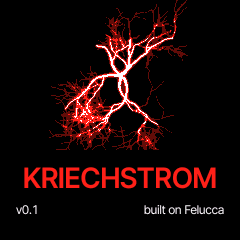
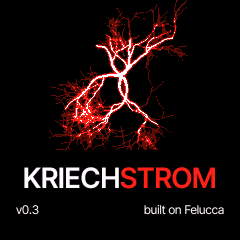
KRIECHSTROM 0.3: the manual, the site, the screens and the card for INFECT, HOWL, RESONATE, SPLICE and the new WALL; the source tarball from git

Changed region(s): [[0.0875, 0.6708, 0.4958, 0.7875], [0.7, 0.7, 0.9042, 0.7875], [0.1167, 0.8458, 0.175, 0.9042]]

diff --git a/site/manual/en.html b/site/manual/en.html
@@ -53,6 +53,10 @@ units. Everything Felucca does still works: this manual covers what you need to 
 <tr><td><kbd>SCL</kbd> hold + key</td><td>the root note</td></tr>
 <tr><td><kbd>LFO</kbd> hold + knob</td><td>MOMENTARY: let go, the value jumps back (<kbd>OCT+</kbd> keeps it)</td></tr>
 <tr><td>FX &gt; DAMAGE, K1-K4</td><td>DMG (wear), CHAR (tape to digital), WALL (quiet to wall), HISS (tape noise)</td></tr>
+<tr><td>FX &gt; RESONATE, K1-K3</td><td>AMT, KEY, CHORD: the mix rings four strings tuned to a chord</td></tr>
+<tr><td>FX &gt; SPLICE, K1</td><td>how often and how hard the tape is cut and glued back wrong</td></tr>
+<tr><td>FX &gt; PEDAL, INFCT</td><td>sidechain: SRC (the track it listens to), MODE (GATE DUCK CRUSH FOLD RING VOX), DEPTH</td></tr>
+<tr><td>GLCH, WAVE HOWL / MIC</td><td>feedback: GAIN (under ~45 % a pluck, over it a howl), CHAOS, BITE, BLOOM</td></tr>
 <tr><td>MIDI CC85 / CC86</td><td>WALL / DAMAGE</td></tr>
 </table></div>
 
@@ -63,6 +67,7 @@ units. Everything Felucca does still works: this manual covers what you need to 
   <li><a href="#first">First five minutes</a></li>
   <li><a href="#sounds">Changing sounds</a></li>
   <li><a href="#glch">The GLCH engine</a></li>
+  <li><a href="#howl">HOWL and MIC: feedback</a></li>
   <li><a href="#oops">HAPPY ACCIDENT (OOPS)</a></li>
   <li><a href="#seq">The sequencer</a></li>
   <li><a href="#drums">Drums</a></li>
@@ -72,6 +77,9 @@ units. Everything Felucca does still works: this manual covers what you need to 
   <li><a href="#glo">Mutes, solos, fills, songs</a></li>
   <li><a href="#fx">Effects: what is what</a></li>
   <li><a href="#damage">DAMAGE and WALL</a></li>
+  <li><a href="#infect">INFECT: the sidechain pedal</a></li>
+  <li><a href="#resonate">RESONATE</a></li>
+  <li><a href="#splice">SPLICE</a></li>
   <li><a href="#save">Saving and undo</a></li>
   <li><a href="#midi">MIDI and USB audio</a></li>
   <li><a href="#menu">Menu and screen</a></li>
@@ -161,8 +169,8 @@ glide), and the engine's own pages. <kbd>ENV</kbd> is the envelope, <kbd>LFO</kb
 <p>Hold <kbd>LFO</kbd> and turn a knob for a MOMENTARY move: let go of LFO and the value jumps back.</p>
 
 <h2 id="glch">The GLCH engine</h2>
-<p>GLCH is an oscillator (15 waves: SAW, SQR, DUAL, RING, NOIS, FAT, FM, FMX, FUZZ, REES,
-808, GRIT, GROW, SYNC, SUPR) into a resonant filter, a clipper and folder, a bit crusher and a micro-stutter that
+<p>GLCH is an oscillator (17 waves: SAW, SQR, DUAL, RING, NOIS, FAT, FM, FMX, FUZZ, REES,
+808, GRIT, GROW, SYNC, SUPR, and the feedback waves HOWL and MIC, below) into a resonant filter, a clipper and folder, a bit crusher and a micro-stutter that
 chops the note into pieces. Most of its @NGLCH@ sounds come with a PEDAL already set (MUFF, BASS, SMASH, FUZZ, FOLD,
 CRUSH).</p>
 <div class="tw"><table>
@@ -172,6 +180,27 @@ CRUSH).</p>
 <tr><td>K3</td><td>RES: resonance, up to self-oscillation</td><td>SIZE: the stutter's slice length</td></tr>
 <tr><td>K4</td><td>DRV: drive into the clipper</td><td>PJMP: pitch jumps between slices</td></tr>
 </table></div>
+
+<h2 id="howl">HOWL and MIC: feedback</h2>
+<p>Two GLCH waves with no oscillator at all: a loop that feeds itself, like a guitar too close to its amp. A note
+starts it with a burst of noise; what comes round goes through the filter and a drive and back in.</p>
+<ul>
+<li><b>HOWL</b>: the loop is as long as the note, so it plays in tune. With GAIN low a note is plucked and dies away;
+past about 45 % it sustains by itself and screams as you turn it up.</li>
+<li><b>MIC</b>: a microphone in front of a speaker in a room. The key picks what rings; the howl locks onto the room
+and CHAOS moves the microphone, so it jumps and wanders.</li>
+</ul>
+<div class="tw"><table>
+<tr><th>Knob</th><th>On HOWL and MIC</th></tr>
+<tr><td>CUT, RES</td><td>the tone in the loop (the filter envelope moves it as usual); on MIC, RES is how narrow the ring is</td></tr>
+<tr><td>GAIN (EDIT 1, K4)</td><td>how close the loop is to running away: a pluck, a sustain, a scream</td></tr>
+<tr><td>CRSH</td><td>bits lost inside the loop: the grit goes round and round</td></tr>
+<tr><td>CHAOS</td><td>the loop's length wanders: the pitch drifts and slips</td></tr>
+<tr><td>BITE</td><td>the noise burst that starts each note</td></tr>
+<tr><td>BLOOM</td><td>how slowly the howl swells in, up to about 3 seconds</td></tr>
+</table></div>
+<p>Sounds: FEEDBACK, STRUNG OUT, SCREAMER, SWELL, WOUNDED (HOWL), PA HOWL, WRONG ROOM, STAGE FRIGHT (MIC).</p>
+<figure><img src="../shots/edit_howl.png" alt="GLCH HOWL"><figcaption>GLCH with WAVE HOWL: K4 is GAIN.</figcaption></figure>
 
 <h2 id="oops">HAPPY ACCIDENT (OOPS)</h2>
 <p>Hold <kbd>EDIT</kbd> and press <kbd>G5</kbd>. Two or three of the sound's parameters jump somewhere else, sometimes an
@@ -293,12 +322,15 @@ Every value that turns an effect off reads <b>OFF</b> at zero.</p>
 <tr><td>SENDS</td><td>how much of <b>this track</b> goes into distortion, chorus, delay and reverb (K1-K4)</td><td>a knob at OFF</td></tr>
 <tr><td>SLICER</td><td>chops this track in time: GATE or STUTTER, in time with the tempo</td><td>K1 OFF</td></tr>
 <tr><td>PEDAL</td><td>one effect only on this track, like a pedal in front of an amp: SOFT, HARD, FOLD, FUZZ, CRUSH,
-PHASR, FLANG, CHOR, MUFF (fuzz pedal), BASS (bass amp drive), SMASH (heavy compression and clipping), DAMG (wear, see below)</td><td>K1 OFF</td></tr>
+PHASR, FLANG, CHOR, MUFF (fuzz pedal), BASS (bass amp drive), SMASH (heavy compression and clipping), DAMG (wear, see below),
+INFCT (the sidechain, see INFECT)</td><td>K1 OFF</td></tr>
 <tr><td>PEDAL MIX</td><td>how much of the pedal you hear, dry to wet</td><td>OFF</td></tr>
 <tr><td>DELAY</td><td>one delay shared by all tracks: TIME, FEEDBACK, COLOUR, MIX</td><td>MIX OFF (all tracks), or a track's DLY send</td></tr>
 <tr><td>REVERB</td><td>one reverb for all tracks: ROOM, SPRING, HALL, size, damping</td><td>a track's REV send</td></tr>
 <tr><td>CHORUS</td><td>one chorus for all tracks</td><td>a track's CHO send</td></tr>
 <tr><td>DAMAGE</td><td>tape or digital degradation of the whole mix, WALL, HISS</td><td>DMG OFF, WALL OFF</td></tr>
+<tr><td>RESONATE</td><td>four strings tuned to a chord, rung by the whole mix</td><td>AMT OFF</td></tr>
+<tr><td>SPLICE</td><td>the tape of the whole mix cut and glued back wrong</td><td>AMT OFF</td></tr>
 </table></div>
 <p>Delay, reverb and chorus are shared: a track gets them through its SENDS. That is why the delay "does not turn off"
 when you change the sound: the preset's sound has its own DLY send. Set DELAY &gt; MIX to OFF to silence the delay for
@@ -309,13 +341,15 @@ everyone, or SENDS &gt; DLY to OFF for one track.</p>
 </div>
 
 <h2 id="damage">DAMAGE and WALL</h2>
-<p>The last FX page, four separate things:</p>
+<p>FX &gt; DAMAGE, four separate things:</p>
 <ul>
 <li><b>DMG</b> (K1) degrades the whole mix: drive, then, as <b>CHAR</b> (K2) goes from tape to digital, a
 darker tone, the pitch wobbling and dips like a stretched tape, or lost bits, a dropped sample rate and hard cuts.</li>
-<li><b>WALL</b> (K3) is one knob from quiet to wall, with no wear in it: it pushes every track's distortion and effect
-sends up, adds a heavily compressed copy of the mix under it and widens the stereo, and from 80 % on it
-plays the FILL steps. Turn it while playing: hold <kbd>FX</kbd> and turn <b>SELECT</b>.</li>
+<li><b>WALL</b> (K3) is one knob from quiet to a wall of sound, with no wear in it. A wall is layers: it adds two
+more takes of the whole mix (copies 13 and 21 ms late that drift, one left, one right, like a double-tracked guitar)
+and an octave below the low end, squeezes it all hard under the dry, pushes every track's distortion and effect sends
+up, and from 80 % on plays the FILL steps. The level stays where it was: bigger, not louder. Turn it while playing:
+hold <kbd>FX</kbd> and turn <b>SELECT</b>.</li>
 <li><b>HISS</b> (K4) is a tape's noise floor, on its own: it hisses while the tape runs, that is while PLAY plays, and when stopped while you play and for a second after. Stopped and silent: none. OFF: never.</li>
 </ul>
 <p>From a controller: CC85 is WALL, CC86 DMG. The pedal <b>DAMG</b> does the same wear on one track (AMT, CHAR, LEVEL).</p>
@@ -323,6 +357,38 @@ plays the FILL steps. Turn it while playing: hold <kbd>FX</kbd> and turn <b>SELE
 <figure><img src="../shots/damage.png" alt="DAMAGE"><figcaption>FX &gt; DAMAGE.</figcaption></figure>
 <figure><img src="../shots/insert_damg.png" alt="DAMG pedal"><figcaption>PEDAL DAMG on one track.</figcaption></figure>
 </div>
+
+<h2 id="infect">INFECT: the sidechain pedal</h2>
+<p>On FX &gt; PEDAL set INSRT to <b>INFCT</b>. Now this track reacts to another one: K2 <b>SRC</b> picks the source
+track (T1-T4), K3 <b>MODE</b> what happens, K4 <b>DEPTH</b> how much. PEDAL MIX blends it as on any pedal.</p>
+<div class="tw"><table>
+<tr><th>MODE</th><th>What you hear</th></tr>
+<tr><td>GATE</td><td>the track plays only while the source hits: a choppy gate from your kick</td></tr>
+<tr><td>DUCK</td><td>it dips on every hit and swells back: the pumping pad</td></tr>
+<tr><td>CRUSH</td><td>every hit crushes it to fewer bits</td></tr>
+<tr><td>FOLD</td><td>every hit folds it into a scream</td></tr>
+<tr><td>RING</td><td>the two tracks multiplied: a metallic ring, the drums through the synth</td></tr>
+<tr><td>VOX</td><td>a vocoder: the source talks through this track (drums through a pad). The same sidechain, in 8
+frequency bands</td></tr>
+</table></div>
+<p>The source can sit at LEVEL 0: you do not hear it, only what it does. A hidden kick on its own track is the classic
+sidechain trigger. Put a bright, held sound (a pad, a saw) on the track for VOX: it has to have something to shape.</p>
+<figure><img src="../shots/insert_infect.png" alt="PEDAL INFCT"><figcaption>PEDAL INFCT: this track ducks under track 4.</figcaption></figure>
+
+<h2 id="resonate">RESONATE</h2>
+<p>FX &gt; RESONATE puts four strings on the whole mix, tuned to a chord: K1 <b>AMT</b>, K2 <b>KEY</b> (C to B), K3
+<b>CHORD</b> (OCT, 5TH, MIN, MAJ, SUS, MIN7, DIM, CLST). Everything that plays makes them ring, like a piano with the
+pedal down or a sheet of metal: a kick rings the root, a snare the whole chord, a note out of the key beats against
+them. You hear it most in the gaps. AMT sets how long they ring, from a short buzz to seconds.</p>
+<figure><img src="../shots/resonate.png" alt="RESONATE"><figcaption>FX &gt; RESONATE in A minor.</figcaption></figure>
+
+<h2 id="splice">SPLICE</h2>
+<p>FX &gt; SPLICE cuts the tape of the whole mix and glues it back wrong. It keeps the last moment of the mix; on the
+sixteenths (never on the first of a bar) a piece is glued in instead of what plays: the last sixteenth again or
+backwards, a piece from a beat ago, the tape dragged an octave down, or nothing at all. One knob, <b>AMT</b>: low, a
+cut now and then; at the top, one sixteenth in two, longer and harsher. The same project is cut the same way each time
+you press PLAY.</p>
+<figure><img src="../shots/splice.png" alt="SPLICE"><figcaption>FX &gt; SPLICE.</figcaption></figure>
 
 <h2 id="save">Saving and undo</h2>
 <ul>

diff --git a/site/ru.html b/site/ru.html
@@ -30,6 +30,9 @@
   <figure><img src="shots/home.png" alt="HOME"><figcaption>HOME</figcaption></figure>
   <figure><img src="shots/presets.png" alt="PRESETS"><figcaption>Звуки по движкам и категориям</figcaption></figure>
   <figure><img src="shots/damage.png" alt="DAMAGE"><figcaption>DAMAGE: износ всего микса</figcaption></figure>
+  <figure><img src="shots/insert_infect.png" alt="PEDAL INFCT"><figcaption>INFECT: педаль-сайдчейн</figcaption></figure>
+  <figure><img src="shots/edit_howl.png" alt="GLCH HOWL"><figcaption>GLCH HOWL: обратная связь</figcaption></figure>
+  <figure><img src="shots/resonate.png" alt="RESONATE"><figcaption>RESONATE: микс звенит в тональности</figcaption></figure>
   <figure><img src="shots/layer_seq_tools_drum.png" alt="SEQ TOOLS"><figcaption>SEQ TOOLS с DICE и MOOD</figcaption></figure>
   <figure><img src="shots/drum.png" alt="драм-сетка"><figcaption>Драм-сетка</figcaption></figure>
   <figure><img src="shots/perform_held.png" alt="слой FX"><figcaption>Живые эффекты</figcaption></figure>

diff --git a/site/index.html b/site/index.html
@@ -30,6 +30,9 @@ synths, drums and live effects.</p>
   <figure><img src="shots/home.png" alt="HOME"><figcaption>HOME</figcaption></figure>
   <figure><img src="shots/presets.png" alt="PRESETS"><figcaption>Sounds by engine and category</figcaption></figure>
   <figure><img src="shots/damage.png" alt="DAMAGE"><figcaption>DAMAGE: the whole mix wears out</figcaption></figure>
+  <figure><img src="shots/insert_infect.png" alt="PEDAL INFCT"><figcaption>INFECT: a sidechain pedal</figcaption></figure>
+  <figure><img src="shots/edit_howl.png" alt="GLCH HOWL"><figcaption>GLCH HOWL: feedback</figcaption></figure>
+  <figure><img src="shots/resonate.png" alt="RESONATE"><figcaption>RESONATE: the mix rings in a key</figcaption></figure>
   <figure><img src="shots/layer_seq_tools_drum.png" alt="SEQ TOOLS"><figcaption>SEQ TOOLS with DICE and MOOD</figcaption></figure>
   <figure><img src="shots/drum.png" alt="drum grid"><figcaption>The drum grid</figcaption></figure>
   <figure><img src="shots/perform_held.png" alt="FX layer"><figcaption>Live effects</figcaption></figure>

diff --git a/tests/ui_render.c b/tests/ui_render.c
@@ -804,7 +804,7 @@ enum { S_HOME, S_HOME_IDLE, S_MESSAGE, S_MESSAGE_KEY, S_MESSAGE_NOFILE, S_PRESET
        S_DETAIL_COND, S_DETAIL_FILL, S_AUTO_COND, S_GLO_FILL, S_SEQ_EUCLID, S_SEQ_EUCLID_DRUM, S_SEQ_EUCLID_64,
        S_MENU_SELECT, S_PROJECT_ERASE, S_CONFIRM_ERASE_PROJ, S_TOOLS_CLEAN, S_CONFIRM_CLEAN,
        S_MENU_MIDI_TRACK, S_MENU_MIDI_TCH_UNUSED, S_MENU_MIDI_AUTO, S_HOME_TRACKS_MIDI, S_MIXER_MIDI, S_EDIT_PHASE_FOLD,
-       S_DAMAGE, S_INSERT_DAMG, S_COUNT };   /* (KRIECHSTROM) */
+       S_DAMAGE, S_INSERT_DAMG, S_RESONATE, S_SPLICE, S_INSERT_INFECT, S_EDIT_HOWL, S_COUNT };   /* (KRIECHSTROM) */
 static const char *const S_NAME[S_COUNT] = {"home", "home_idle", "message", "message_key", "message_nofile", "presets", "presets_nofav", "user",
     "phrases", "project", "tools", "song_empty", "song", "step", "auto_steps", "auto_add_chance", "automation", "drum",
     "drum_hand", "drum_cym", "mixer", "mixer_from_home", "mixer_pan", "env", "env_dest", "lfo", "mod", "fx", "slicer", "dly", "scl", "chord", "chord_wide", "chord_off", "chord_kit", "arp",
@@ -836,7 +836,7 @@ static const char *const S_NAME[S_COUNT] = {"home", "home_idle", "message", "mes
     "layer_seq_euclid_64",
     "menu_select", "project_erase", "confirm_erase_project", "tools_clean", "confirm_clean",
     "menu_midi_track", "menu_midi_channels_unused", "menu_midi_auto_select", "home_tracks_midi", "mixer_midi", "edit_phase_fold",
-    "damage", "insert_damg"};
+    "damage", "insert_damg", "resonate", "splice", "insert_infect", "edit_howl"};
 
 /* the STEP page's piano roll (ui_graph.c graph_roll) on track 1, stopped unless said: an empty pattern; ACID in
  * A minor; POLY chords (Am7 F C G, tied); a line with ties, slides and accents in C major; LEN 32 on its second
@@ -1260,6 +1260,10 @@ static void setup(int s)
     case S_EDIT_PHASE_FOLD: eng(2); TSEL->p[P_E7] = 80; go_title("EDIT 2"); ui.hot_col = 3; ui.hot_t = 30; break;   /* 1.5.5 FOLD (#104) */
     case S_DAMAGE: song.g[G_DMG] = 90; song.g[G_DMGC] = 40; song.g[G_WALL] = 64; go_title("DAMAGE"); break;   /* KRIECHSTROM */
     case S_INSERT_DAMG: set_ins_ui(IT_DAMAGE, 100, 30, 96, 127); go_title("INSERT"); break;
+    case S_RESONATE: song.g[G_RES] = 90; song.g[G_RKEY] = 9; song.g[G_RCHD] = 2; go_title("RESONATE"); break;
+    case S_SPLICE: song.g[G_SPLICE] = 80; go_title("SPLICE"); break;
+    case S_INSERT_INFECT: set_ins_ui(IT_INFECT, 3, IFX_DUCK, 110, 127); go_title("INSERT"); break;
+    case S_EDIT_HOWL: eng(7); TSEL->p[P_E0] = GW_HOWL; TSEL->p[P_E3] = 90; go_title("EDIT 1"); break;
     case S_ALG1: case S_ALG2: case S_ALG3: case S_ALG4: case S_ALG5: case S_ALG6: case S_ALG7: case S_ALG8:
         eng(1); TSEL->p[P_E0] = (int16_t)(s - S_ALG1);      /* the 8 DIGITAL charts; FB on the odd ones, IDX high .. 0 */
         TSEL->p[P_E6] = (s - S_ALG1) & 1 ? 40 : 0; TSEL->p[P_E4] = (int16_t)((S_ALG8 - s) * 18);

diff --git a/site/build.py b/site/build.py
@@ -8,7 +8,7 @@
   audio/*.m4a                        the sound demos the pages use, from tools/krst_demos.sh (build/demos)
   webapp/installer, webapp/editor    web/make_site.py
   firmware/kriechstrom-VER.fwsc      the package
-  src/kriechstrom-VER-src.tar.gz     the source of this build (GPL-3.0)
+  src/kriechstrom-VER-src.tar.gz     the source of this build (GPL-3.0): the files git tracks
 
   python3 site/build.py build/kriechstrom-0.1.fwsc 0.1 [OUT]
 
@@ -89,16 +89,16 @@ def sound_list(lang):
 
 
 def source_tarball(dst, version):
+    """the source of this build: the files git tracks, as they are in the tree (nothing local or untracked: build
+    output, notes, editor files); a new file goes in once it is added to git"""
     name = f"kriechstrom-{version}-src"
     path = dst / f"{name}.tar.gz"
-    skip = {"build", "node_modules", ".DS_Store", "__pycache__", ".git"}
-
-    def keep(ti):
-        parts = Path(ti.name).parts
-        return None if any(p in skip for p in parts) or ti.name.endswith(".fwsc") else ti
-
+    files = subprocess.run(["git", "-C", str(ROOT), "ls-files", "-z"], check=True,
+                           capture_output=True).stdout.decode().split("\0")
     with tarfile.open(path, "w:gz") as tar:
-        tar.add(ROOT, arcname=name, filter=keep)
+        for f in sorted(x for x in files if x):
+            if (ROOT / f).is_file() and not f.endswith(".fwsc"):
+                tar.add(ROOT / f, arcname=f"{name}/{f}", recursive=False)
     return path
 
 

diff --git a/firmware/src/felucca.c b/firmware/src/felucca.c
@@ -48,7 +48,7 @@
 #define FM1_CRASH_CTX_N 1u         /* chip/fm1_irq.h: the registers of the last crash only (80 B of .noinit; four would
                                     * not fit beside the project slots) */
 #ifndef FELUCCA_VERSION
-#define FELUCCA_VERSION "v0.2"   /* KRIECHSTROM 0.2, on Felucca 1.8.2 */ /* shown in the menu, the console and the editor; build.py --release X.Y */
+#define FELUCCA_VERSION "v0.3"   /* KRIECHSTROM 0.3, on Felucca 1.8.2 */ /* shown in the menu, the console and the editor; build.py --release X.Y */
 #endif
 #if FELUCCA_OTA && !FELUCCA_FLASH
 #error "FELUCCA_OTA needs FELUCCA_FLASH"

diff --git a/README.md b/README.md
@@ -22,20 +22,28 @@ needed.
 
 ## What it adds to Felucca
 
-- **GLCH** engine (from Glitchbox): clipping, wavefolding, a resonant filter, bit crushing and micro-stutter; 48 sounds,
+- **GLCH** engine (from Glitchbox): clipping, wavefolding, a resonant filter, bit crushing and micro-stutter; 56 sounds,
   most with a distortion pedal set
-- **171 sounds** in 13 engines, 13 drum kits including DESTROY
+- **HOWL** and **MIC** in GLCH: no oscillator, a loop that feeds itself; HOWL a string in overdrive that sustains and
+  screams in tune, MIC a microphone in front of a speaker that howls at the note
+- **179 sounds** in 13 engines, 13 drum kits including DESTROY
 - **DICE**: hold SEQ, press F5, the track gets a new part in one of eight moods (MACHINE, GRIND, MARCH 7/8, GLITCH,
   SPIRAL, GHOST, SURGE, HUSH); G5 picks the mood
 - **HAPPY ACCIDENT**: hold EDIT, press G5, two or three parameters of the sound change at random; hold SAVE to undo
 - **DAMAGE** on the master: tape (darker, wobbling, sagging) to digital (bits, lower rate, hard cuts), its level kept;
   the same as the **DAMG** pedal on one track
-- **WALL**: one knob from quiet to a wall (sends, distortion, a squeezed and wider mix, the FILL steps); FX + SELECT
+- **WALL**: one knob from quiet to a wall of sound (the mix double-tracked, an octave added under its low end, squeezed
+  hard, the sends and distortion pushed, the FILL steps), its level kept; FX + SELECT
 - **HISS**: a tape's noise floor on its own knob
+- **INFECT**: a sidechain pedal; one track drives another (GATE, DUCK, CRUSH, FOLD, RING) or talks through it (VOX, an
+  8-band vocoder); the source may sit at LEVEL 0
+- **RESONATE**: four strings on the master tuned to a chord, rung by everything that plays
+- **SPLICE**: the tape of the whole mix cut and glued back wrong on the sixteenths (repeats, reverses, misplaced pieces,
+  half speed, dropouts), one knob
 - MUFF, BASS and SMASH pedals, ROLL and GATE live effects (from Glitchbox)
 - power-on sounds and patterns that play when PLAY is pressed
 - the STROM theme (black and red), large values and hints on screen, effects that toggle with a tap
-- its own USB name and identity `FM-1_57810001`; works with the newer FM-1 flash (`0xB36014`)
+- its own USB name and identity `FM-1_57810002`; works with the newer FM-1 flash (`0xB36014`)
 
 **Projects and sounds:** KRIECHSTROM reads Felucca's projects, user presets and samples as they are. Projects of
 other firmwares are not read; back them up before installing.
@@ -48,7 +56,7 @@ the FX layer, chord keys, the arpeggiator, MIDI in over USB and TRS, MIDI learn,
 Connect the FM-1 by USB and open the web installer in Chrome or Edge:
 https://xforsa.github.io/kriechstrom/webapp/installer/ (or the `.fwsc` from the
 [releases](https://github.com/Xforsa/kriechstrom/releases) with `tools/fm1_install.py`). The installer can take you
-back to the official V15. Back up your projects first.
+back to the official V15 or V16. Back up your projects first.
 
 ## Manual
 

diff --git a/docs/release-0.3.md b/docs/release-0.3.md
@@ -1,0 +1,45 @@
+# KRIECHSTROM 0.3
+
+New sounds and effects for the whole mix, and the wall rebuilt.
+
+## Added
+
+- **INFECT**, a sidechain pedal (PEDAL > INFCT): one track reacts to another. GATE chops it on the source's hits,
+  DUCK makes it pump, CRUSH and FOLD let the hits distort it, RING multiplies the two, VOX is a vocoder: the drums
+  talk through a pad. The source can sit at LEVEL 0 as a hidden trigger.
+- **HOWL** and **MIC**, two GLCH waves with no oscillator: a loop that feeds itself. HOWL is a string in overdrive that
+  sustains and screams in tune; MIC is a microphone in front of a speaker that howls at the note. Knobs GAIN, CHAOS,
+  BITE, BLOOM, and eight sounds: FEEDBACK, STRUNG OUT, SCREAMER, SWELL, WOUNDED, PA HOWL, WRONG ROOM, STAGE FRIGHT.
+- **RESONATE** (FX > RESONATE): four strings on the master tuned to a chord (AMT, KEY, CHORD), rung by everything that
+  plays.
+- **SPLICE** (FX > SPLICE): the tape of the whole mix cut and glued back wrong. On the sixteenths a piece replaces what
+  plays: a repeat, a reverse, a piece from a beat ago, half speed or a cut to silence. One knob for how often and how
+  hard; the same project is cut the same way each time.
+
+## Changed
+
+- **WALL** is a wall of sound now: the whole mix double-tracked (two drifting copies, left and right) with an octave
+  added under its low end, then squeezed as before. The level stays where it was.
+- The power-on screen shows the name as the site does: KRIECH in white, STROM in red.
+- The installer shows a progress bar with a percentage, returns to the official V15 or V16, and finds an FM-1 whose
+  MIDI port macOS still calls by an older name.
+- Every release keeps the identity `FM-1_57810002`.
+
+## Install
+
+Back up first, then the [web installer](https://xforsa.github.io/kriechstrom/webapp/installer/) in Chrome or Edge,
+or `python3 tools/fm1_install.py kriechstrom-0.3.fwsc`. Projects and presets of 0.1 and 0.2 load as they are; the new
+effects start off. Hear each new feature on the [site](https://xforsa.github.io/kriechstrom/) and read about it in the
+[manual](https://xforsa.github.io/kriechstrom/manual/en.html).
+
+## Files
+
+| File | What |
+| --- | --- |
+| `kriechstrom-0.3.fwsc` | the package: the app and the update loader |
+| `kriechstrom-0.3-src.tar.gz` | the complete source of this build (GPL-3.0) |
+| `SHA256SUMS` | checksums |
+
+Built on [Felucca](https://github.com/hugelton/Felucca) by Leo Kuroshita, Hügelton Instruments, with parts of
+[Glitchbox](https://github.com/erikdevos/glitchbox) by erikdevos. GPL-3.0-only. Full history:
+[CHANGELOG.md](https://github.com/Xforsa/kriechstrom/blob/main/CHANGELOG.md).

diff --git a/CHANGELOG.md b/CHANGELOG.md
@@ -5,6 +5,8 @@ versions are `X.Y`; the package identity is `FM-1_57810002` for every release si
 
 ## [Unreleased]
 
+## [0.3] - 2026-11-17
+
 ### Added
 - INFECT: a sidechain pedal (INSERT INFCT) through which one track drives another: GATE, DUCK, CRUSH, FOLD, RING or
   VOX (an 8-band vocoder) by the source track's sound, which drives even at LEVEL 0
@@ -12,7 +14,8 @@ versions are `X.Y`; the package identity is `FM-1_57810002` for every release si
 - RESONATE (FX > RESONATE): four strings on the master tuned to a chord (AMT, KEY, CHORD), rung by the mix
 - SPLICE (FX > SPLICE): the tape cut and glued back wrong; on the sixteenths a piece replaces the mix (a repeat, a
   reverse, a piece from a beat ago, half speed, a cut to silence), as often and as hard as AMT says
-- sound demos on the site, a short piece for each of DAMAGE, INFECT, VOX, HOWL and RESONATE (tools/krst_demos.sh)
+- sound demos on the site, a short piece for each of DAMAGE, WALL, INFECT, VOX, HOWL, RESONATE and SPLICE
+  (tools/krst_demos.sh)
 
 ### Changed
 - WALL is a wall of sound now: the mix double-tracked (two drifting copies, 13 and 21 ms, left and right) and an
@@ -24,7 +27,8 @@ versions are `X.Y`; the package identity is `FM-1_57810002` for every release si
   the technical log is folded under Details
 - release builds keep the identity `FM-1_57810002` instead of taking a new one per version
 - the power-on screen shows the name as the site does: KRIECH in white, STROM in red
-- the site shows six screens, with the sound list and DAMAGE
+- the site shows nine screens, with the sound list, DAMAGE, INFECT, HOWL and RESONATE; the manual covers the new
+  features
 
 ## [0.2] - 2026-11-12
 
@@ -55,5 +59,6 @@ The first release, built on Felucca 1.8.2.
 - the USB device name and the identity: KRIECHSTROM, `FM-1_57810001`
 - Felucca-Engines and felucca-bsp are kept in the tree instead of submodules
 
+[0.3]: https://github.com/Xforsa/kriechstrom/releases/tag/v0.3
 [0.2]: https://github.com/Xforsa/kriechstrom/releases/tag/v0.2
 [0.1]: https://github.com/Xforsa/kriechstrom/releases/tag/v0.1
